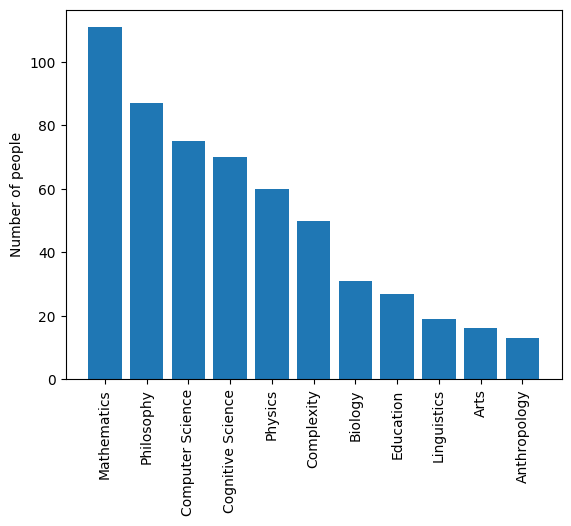
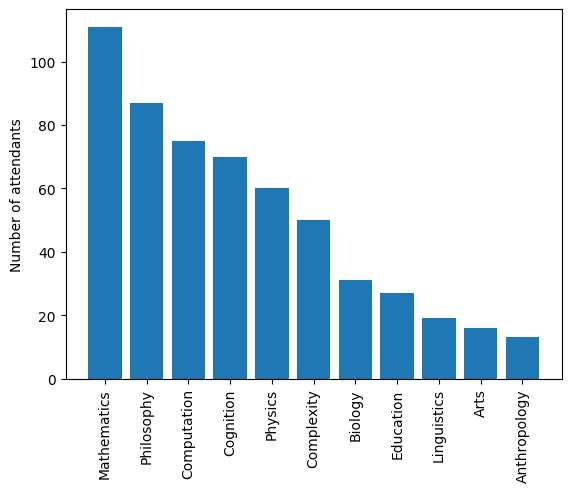
final changes

diff --git a/final_outputs/chord_diagram.html b/final_outputs/chord_diagram.html
@@ -49,29 +49,29 @@
         font-family: "Lato", sans-serif;
       }
 
-      #chart-ad03fbe9, #featured-chart-ad03fbe9 {
+      #chart-3e9aecd7, #featured-chart-3e9aecd7 {
         font-size: 16px;
         font-family: "Lato", sans-serif;
         text-align: center;
         fill: #454545;
       }
 
-      #chart-ad03fbe9 svg, #featured-chart-ad03fbe9 svg {
-        max-width: 700.0px;
+      #chart-3e9aecd7 svg, #featured-chart-3e9aecd7 svg {
+        max-width: 600.0px;
       }
 
-      .details_thumbs-chart-ad03fbe9 {
+      .details_thumbs-chart-3e9aecd7 {
         margin:5.0px;
         max-width:85.0px;
         padding:0;
         display:inline-block; 
       }
 
-      .details_thumbs-chart-ad03fbe9 img {
+      .details_thumbs-chart-3e9aecd7 img {
         max-width:85.0px;
       }
 
-      .details_thumbs-chart-ad03fbe9 figcaption {
+      .details_thumbs-chart-3e9aecd7 figcaption {
         text-align: center;
         font-size: 14.0px;
       }
@@ -90,8 +90,8 @@
       }
 
       @media (min-width: 600px) {
-				#chart-ad03fbe9, #featured-chart-ad03fbe9 {
-					font-size: 20px;
+				#chart-3e9aecd7, #featured-chart-3e9aecd7 {
+					font-size: 15.4px;
 				}
 
         .arc_numbers{
@@ -101,7 +101,7 @@
     </style>
   </head>
   <body>
-    <div id="chart-ad03fbe9" class="chord">
+    <div id="chart-3e9aecd7" class="chord">
     </div>
     <script src="https://unpkg.com/@popperjs/core@2"></script>
     <script src="https://unpkg.com/tippy.js@6"></script>
@@ -123,12 +123,12 @@
         bottom: 100.0
       };
 
-      width = Math.min(window.innerWidth, 700.0) - margin.left - margin.right;
-      height = Math.min(window.innerWidth, 700.0) - margin.top - margin.bottom;
+      width = Math.min(window.innerWidth, 600.0) - margin.left - margin.right;
+      height = Math.min(window.innerWidth, 600.0) - margin.top - margin.bottom;
 
-      tag_id = "chart-ad03fbe9";
-      Names = ['Philosophy', 'Complexity', 'Anthropology', 'Physics', 'Linguistics', 'Arts', 'Mathematics', 'Cognitive Science', 'Biology', 'Education', 'Computer Science'];
-      colors = d3.schemeSet1;
+      tag_id = "chart-3e9aecd7";
+      Names = ['Philosophy', 'Complexity', 'Anthropology', 'Physics', 'Linguistics', 'Arts', 'Mathematics', 'Cognition', 'Biology', 'Education', 'Computation'];
+      colors = ['#ff0000', '#80ff00', '#0040ff', '#ff9305', '#8000ff', '#19e36d', '#b51f71', '#c99c30', '#02ddfa', '#0a0a0a', '#ddff00'];
       opacityDefault = 0.8;
       matrix = [[0.0, 25.0, 9.0, 28.0, 8.0, 9.0, 46.0, 29.0, 12.0, 9.0, 30.0], [25.0, 0.0, 4.0, 22.0, 9.0, 8.0, 25.0, 24.0, 16.0, 8.0, 27.0], [9.0, 4.0, 0.0, 5.0, 4.0, 5.0, 9.0, 9.0, 5.0, 2.0, 6.0], [28.0, 22.0, 5.0, 0.0, 6.0, 6.0, 39.0, 16.0, 11.0, 8.0, 24.0], [8.0, 9.0, 4.0, 6.0, 0.0, 6.0, 8.0, 12.0, 6.0, 5.0, 11.0], [9.0, 8.0, 5.0, 6.0, 6.0, 0.0, 11.0, 5.0, 4.0, 3.0, 5.0], [46.0, 25.0, 9.0, 39.0, 8.0, 11.0, 0.0, 28.0, 18.0, 19.0, 50.0], [29.0, 24.0, 9.0, 16.0, 12.0, 5.0, 28.0, 0.0, 16.0, 18.0, 29.0], [12.0, 16.0, 5.0, 11.0, 6.0, 4.0, 18.0, 16.0, 0.0, 5.0, 17.0], [9.0, 8.0, 2.0, 8.0, 5.0, 3.0, 19.0, 18.0, 5.0, 0.0, 12.0], [30.0, 27.0, 6.0, 24.0, 11.0, 5.0, 50.0, 29.0, 17.0, 12.0, 0.0]];
       details = [];
@@ -174,7 +174,7 @@
 
       //A "custom" d3 chord function that automatically sorts the order of the chords in such a manner to reduce overlap
       var chord = customChordLayout()
-        .padding(0.01)
+        .padding(0.15)
         .sortChords(d3.descending) //which chord should be shown on top when chords cross. Now the biggest chord is at the bottom
         .matrix(matrix);
 
@@ -581,7 +581,7 @@
               
               var figures = '';
               for(var i = 0; i < details[d.source.index][d.target.index].length; i++) {
-                  figures += "<figure class='details_thumbs-chart-ad03fbe9'><img src=" + details_thumbs[d.source.index][d.target.index][i] + "><figcaption>" + details[d.source.index][d.target.index][i] + "</figcaption></figure>"
+                  figures += "<figure class='details_thumbs-chart-3e9aecd7'><img src=" + details_thumbs[d.source.index][d.target.index][i] + "><figcaption>" + details[d.source.index][d.target.index][i] + "</figcaption></figure>"
               }
         
               tippy_content = tippy_content +

diff --git a/hyperViz.py b/hyperViz.py
@@ -146,8 +146,8 @@ def disciplineFreq(in_percentage = True):
 Main program
 """
 # disciplineCount()
-# disciplineFreq()
-disciplinePercentage()
+disciplineFreq(in_percentage=False)
+# disciplinePercentage()
 
 
 # TODO: learn to change a key in a dictionary
